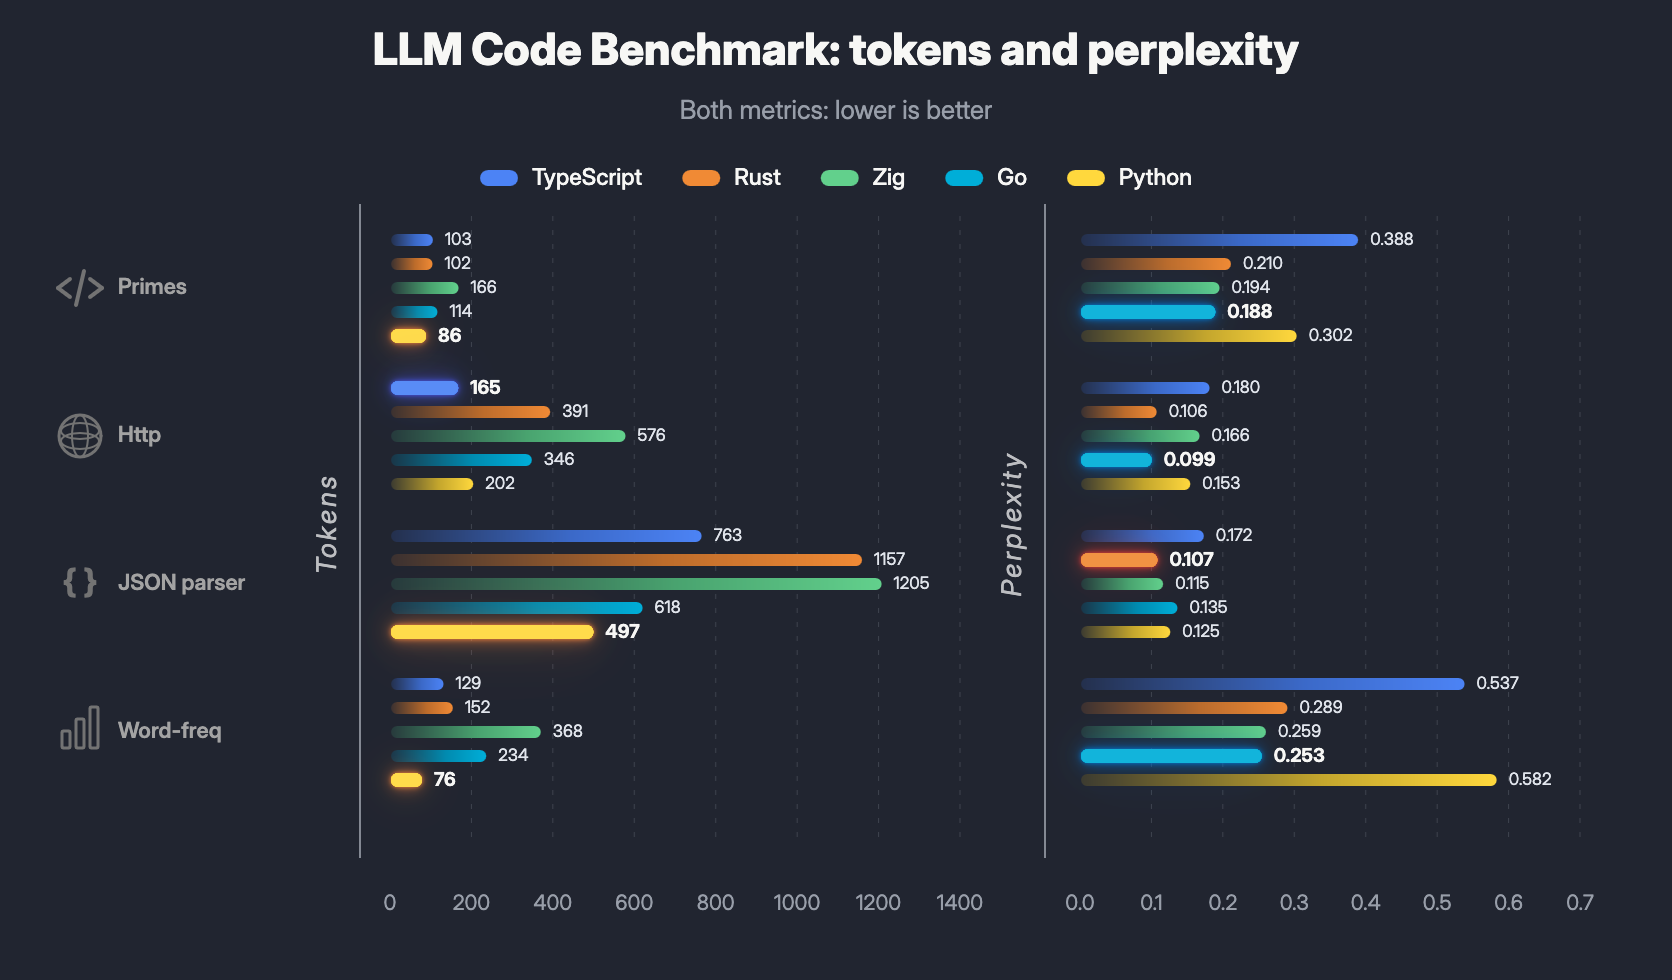
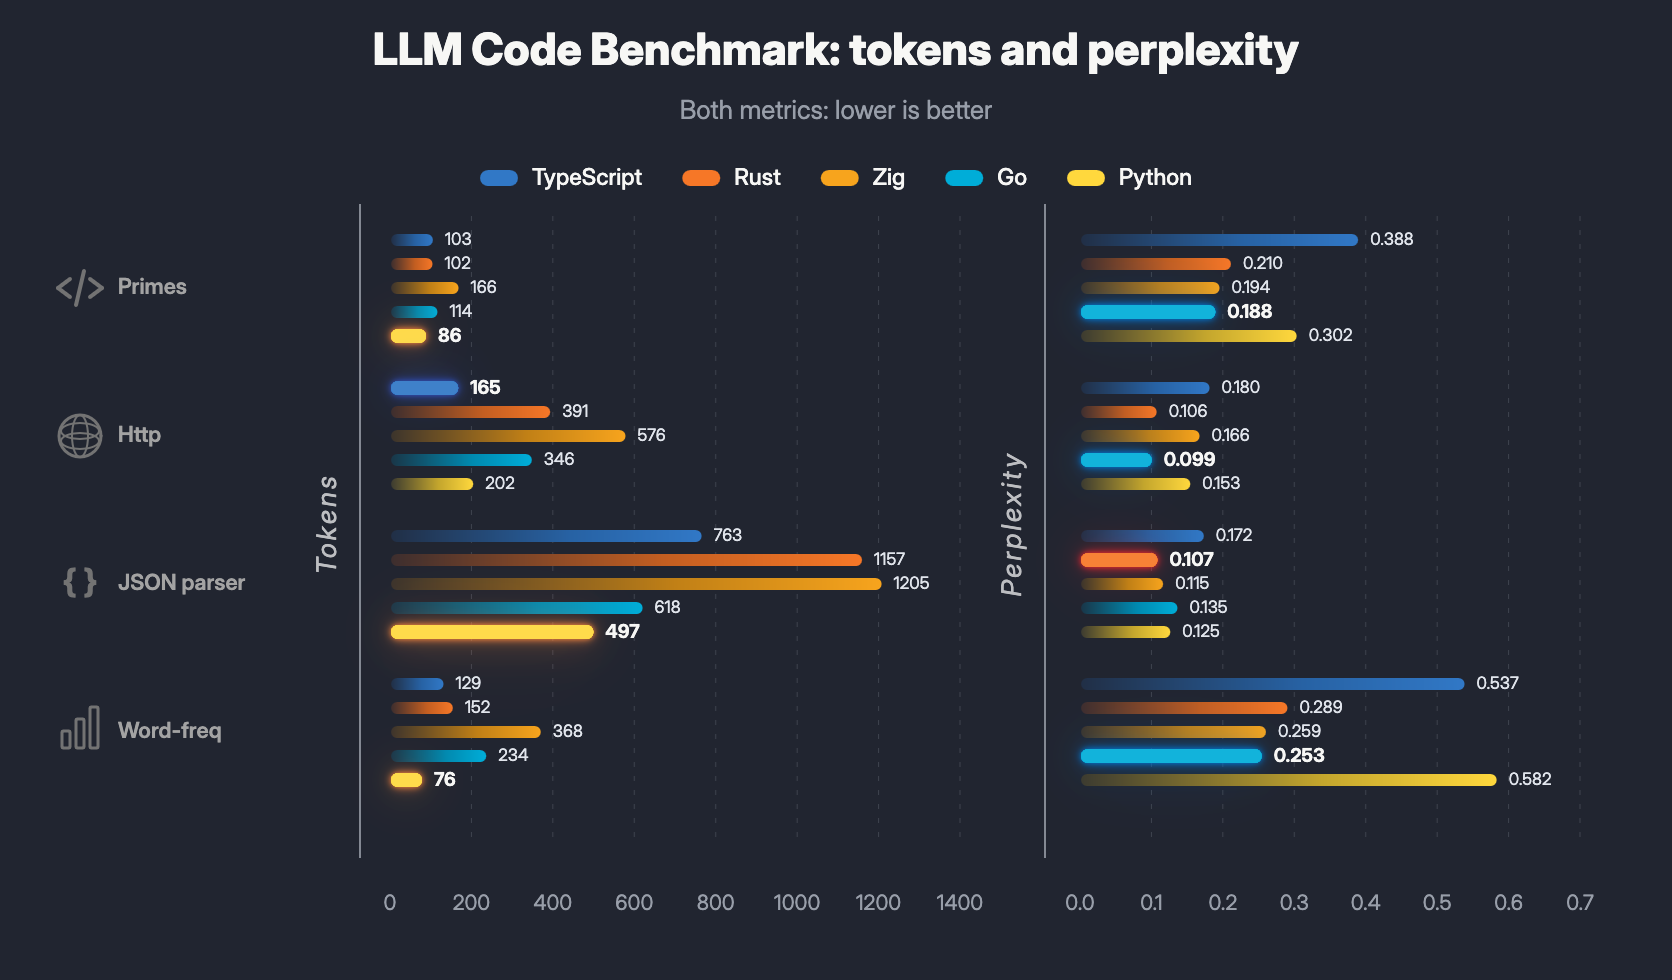
style: update bar's colors on charts

diff --git a/media/draw-chart.html b/media/draw-chart.html
@@ -77,10 +77,10 @@
       icon: "#737373",
       iconText: "#A3A3A3",
 
-      ts:   "#4c83f5",
-      rust: "#f08a35",
-      zig:  "#62d08c",
-      go:   "#00aed8",
+      ts:   "#3178c6",
+      rust: "#f67727",
+      zig:  "#f7a41d",
+      go:   "#00ADD8",
       py:   "#ffd83d",
     };
 
@@ -290,11 +290,11 @@
         const intensity = 1.0;
 
         const passes = [
-          { blur: 5, alpha: 0.95 },
-          { blur: 14, alpha: 0.60 },
-          { blur: 32, alpha: 0.32 },
-          { blur: 60, alpha: 0.15 },
-          { blur: 90, alpha: 0.06 },
+          { blur:   6, alpha: 0.98 },
+          { blur:  12, alpha: 0.62 },
+          { blur:  36, alpha: 0.40 },
+          { blur:  70, alpha: 0.16 },
+          { blur: 140, alpha: 0.07 },
         ];
 
         for (const p of passes) {
